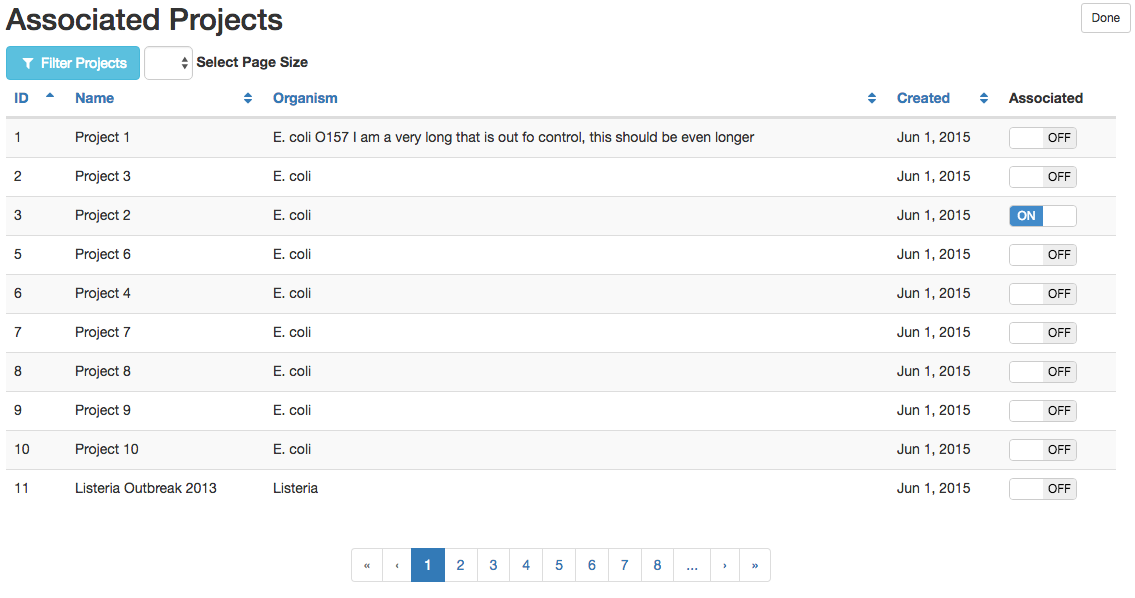
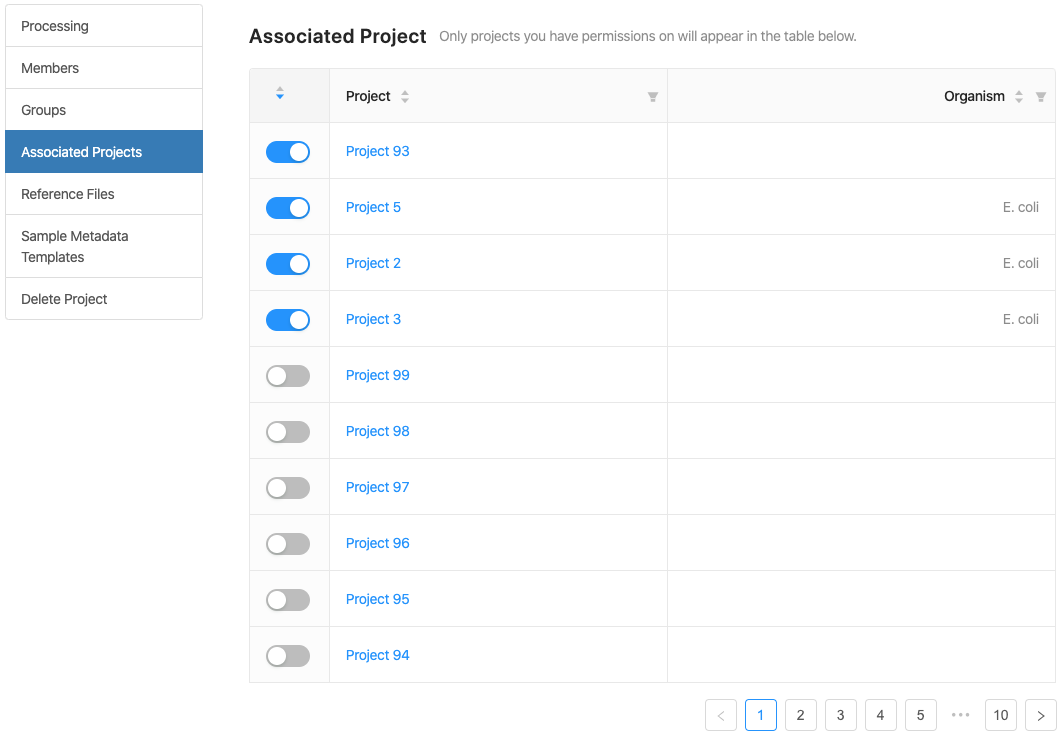
Updated documentation.

diff --git a/doc/user/user/project/index.md b/doc/user/user/project/index.md
@@ -250,11 +250,13 @@ To confirm, click the "Ok" button.
 
 ### Associated Projects
 
-Associated projects can be used to help manage related sample data across multiple projects.  Samples from associated projects can be viewed seamlessly with samples from the local project and used together in analysis pipelines.
+Associated projects can be used to help manage related sample data across multiple projects.  Samples from associated projects can be viewed seamlessly with samples from the local project and used together in analysis pipelines.  
 
 To view associated projects click the **Associated Projects** tab in the project settings page.
 
 ![Associated projects tab](images/associated-tab.png)
+*This is how the table will look for a Collaborator on the project*
+
 
 #### Viewing associated projects
 
@@ -264,11 +266,11 @@ The "Associated Projects" list will display the projects associated with this pr
 
 #### Adding or removing associated projects
 
-Project Managers can add or remove associated projects for a project.  From the "Associated Projects" page, click the "Edit" button.
+Project Managers can add or remove associated projects for a project.  When going to the associated projects tab, managers will see the currently associated projects selected, as well as all projects they have access to.  Using the toggle 
 
 **Note:** To add or remove a project to the list of associated projects, the manager must *at least* be able to read the data in the project to be added in the associated projects list.
 
-You will be presented with a list of all projects you have access to in the local installation.  To add or remove an associated project, click the "On/Off" switch.
+Adding or removing an associated project can be accomplished by clicking on the toggle box in the first column of the table.  If the toggle is "On" (blue) then the project is associated.
 
 ![Edit local associated projects](images/associated-local.png)
 
